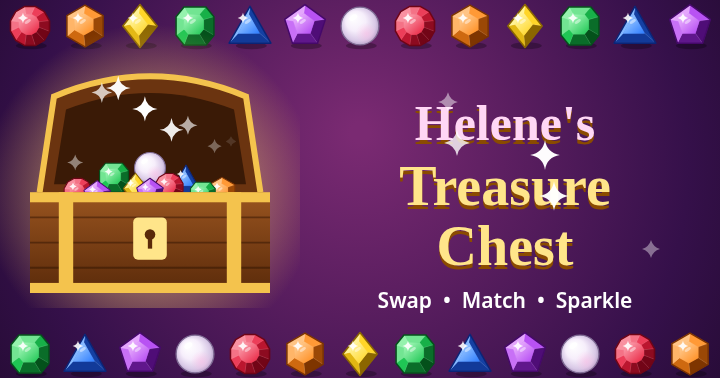
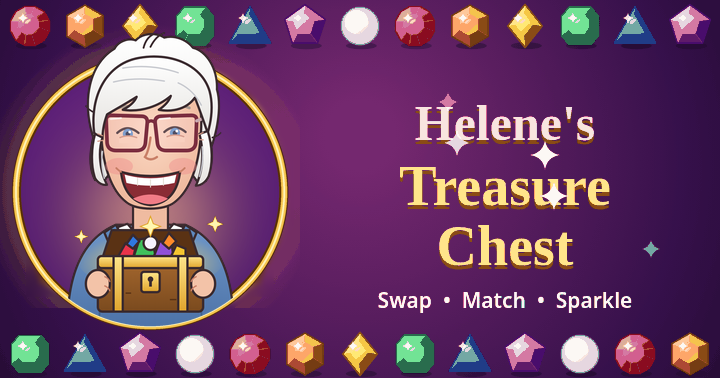
Helene caricature: new cover (cover.png/cover-anim.gif) with Helene holding her treasure chest; Helene stands beside the board and cheers on GREAT!/COMBO callouts and level clears (free space only, face badge on small/landscape screens), face on title + Level Complete cards (helene.js, helene.png, h

diff --git a/helene.js b/helene.js
@@ -1,0 +1,47 @@
+/* Helene cheers you on: her caricature sits beside the board (in free space only, never over the jewels),
+   bounces and says something kind on every GREAT!/COMBO callout and when a level is complete. */
+(()=>{const $=id=>document.getElementById(id),app=$('app');if(!app)return;
+const st=document.createElement('style');st.textContent=`
+#helBud{position:absolute;z-index:12;pointer-events:none;display:none;align-items:flex-end;gap:6px}
+#helBud img{display:block;height:100%;width:auto;filter:drop-shadow(0 4px 6px rgba(0,0,0,.55));transform-origin:50% 100%;animation:hbIdle 3.2s ease-in-out infinite}
+#helBud.face .hb{font-size:17px;padding:5px 10px;white-space:nowrap}
+#helBud.cheer img{animation:hbCheer .7s cubic-bezier(.2,1.6,.4,1) 2}
+#helBud .hb{align-self:center;max-width:170px;padding:8px 12px;border-radius:18px;background:#fffaf0;border:3px solid #f4c34d;color:#4a1767;font:800 19px/1.15 system-ui,-apple-system,"Segoe UI",Roboto,Arial,sans-serif;box-shadow:0 3px 0 #6b3a00;opacity:0;transform:scale(.6);transition:opacity .2s,transform .25s cubic-bezier(.2,1.6,.4,1);position:relative}
+#helBud .hb::before{content:"";position:absolute;left:-11px;top:50%;margin-top:-8px;border:8px solid transparent;border-right:10px solid #f4c34d;border-left:0}
+#helBud.say .hb{opacity:1;transform:scale(1)}
+@keyframes hbIdle{0%,100%{transform:translateY(0) rotate(0)}50%{transform:translateY(-3px) rotate(-1.5deg)}}
+@keyframes hbCheer{0%{transform:translateY(0) scale(1)}40%{transform:translateY(-14px) scale(1.06) rotate(-4deg)}100%{transform:translateY(0) scale(1)}}
+html.q0 #helBud img{animation:none!important}
+@media (prefers-reduced-motion:reduce){#helBud img{animation:none!important}}
+#lvlH::before,#ttl .a::before{content:"";display:inline-block;width:1.9em;height:1.9em;margin-right:.3em;vertical-align:middle;background:url(helene-face.png) center/contain no-repeat;filter:none}
+#ttl .a::before{width:2.2em;height:2.2em}`;document.head.appendChild(st);
+const el=document.createElement('div');el.id='helBud';el.setAttribute('aria-hidden','true');
+el.innerHTML='<div class="hb"></div>';const im=new Image();im.src='helene.png';im.alt='';im.width=215;im.height=380;el.insertBefore(im,el.firstChild);
+const fx=$('fxc');app.insertBefore(el,fx||null);
+const R=e=>e.getBoundingClientRect(),tt=$('titleOv');let key='';
+function place(){const ctl=$('ctl'),top=$('top'),wrap=$('wrap');if(!ctl||!wrap)return;const A=R(app),c=R(ctl),t=R(top),w=R(wrap);
+ const land=app.classList.contains('land'),H=A.height,W=A.width;let x0,x1,y0,y1;
+ if(tt&&tt.classList.contains('on')){el.style.display='none';key='title';return}
+ const below=[land?c.left:0,land?c.right:W,c.bottom+6,H-8],mid=[t.left,t.right,t.bottom+6,c.top-6],above=[land?t.left:0,land?t.right:W,8,t.top-6];
+ const C=land?[mid,below,above]:[below,above];const pick=C.find(b=>b[3]-b[2]>=84)||C.find(b=>b[3]-b[2]>=40);
+ const k=pick?pick.map(Math.round).join(','):'none';if(k===key)return;key=k;
+ if(!pick){el.style.display='none';return}
+ [x0,x1,y0,y1]=pick;const face=y1-y0<84,h=Math.round(Math.min(y1-y0,face?64:190)),iw=face?h:Math.round(h*215/380),bw=Math.min(face?150:170,Math.max(0,x1-x0-iw-24));
+ const src=face?'helene-face.png':'helene.png';if(!im.src.endsWith(src))im.src=src;el.classList.toggle('face',face);
+ el.style.display='flex';el.style.height=h+'px';el.style.top=Math.round(y0+(y1-y0-h)/2)+'px';
+ el.querySelector('.hb').style.display=bw>=90?'':'none';el.querySelector('.hb').style.maxWidth=bw+'px';
+ const tw=iw+(bw>=90?bw+6:0);el.style.left=Math.round(x0+Math.max(0,(x1-x0-tw)/2))+'px'}
+const LINES=['Wonderful!','Ooh, sparkly!','Beautiful!','Look at that!','Keep it up!','What a treasure!','Lovely match!','You\u2019re a natural!','So pretty!'];
+let tS,tC,last=-1;
+function say(msg,ms){const b=el.querySelector('.hb');b.textContent=msg;el.classList.add('say');clearTimeout(tS);tS=setTimeout(()=>el.classList.remove('say'),ms||1700);
+ el.classList.remove('cheer');void el.offsetWidth;el.classList.add('cheer');clearTimeout(tC);tC=setTimeout(()=>el.classList.remove('cheer'),1500)}
+function pickLine(){let i;do{i=Math.floor(Math.random()*LINES.length)}while(i===last&&LINES.length>1);last=i;return LINES[i]}
+const orig=window.callout;if(typeof orig==='function'){window.callout=function(w,s,tn){const r=orig.apply(this,arguments);try{say(s&&/COMBO/i.test(s)?'Wow, a combo!':pickLine())}catch(e){}return r}}
+const lv=$('lvlOv');let wasLv=false,wasT=true;
+new MutationObserver(()=>{const on=lv.classList.contains('on');if(on&&!wasLv)say('You filled my chest!',2600);let z='';if(on){const cd=lv.querySelector('.card');if(cd){const a=R(cd),b=R(el);if(!(a.left<b.right&&b.left<a.right&&a.top<b.bottom&&b.top<a.bottom))z='21'}}el.style.zIndex=z;wasLv=on}).observe(lv,{attributes:true,attributeFilter:['class']});
+if(tt)new MutationObserver(()=>{const on=tt.classList.contains('on');key='';place();if(!on&&wasT){setTimeout(()=>say('Let\u2019s find some treasure!',2200),500)}wasT=on}).observe(tt,{attributes:true,attributeFilter:['class']});
+const rp=()=>{key='';place()};addEventListener('resize',()=>setTimeout(rp,60));addEventListener('orientationchange',()=>[120,400,900].forEach(t=>setTimeout(rp,t)));
+if(window.visualViewport)visualViewport.addEventListener('resize',()=>setTimeout(rp,60));
+setInterval(place,1000);setTimeout(rp,50);
+window.HELENE={say,place:rp};
+})();

diff --git a/sw.js b/sw.js
@@ -1,4 +1,4 @@
-const P='helenes-treasure-chest-',V=P+'v9',FILES=['./','index.html','logic.js','art.js','gfx.js','manifest.json','icon-192.png','icon-512.png'];
+const P='helenes-treasure-chest-',V=P+'v10',FILES=['./','index.html','logic.js','art.js','gfx.js','helene.js','helene.png','helene-face.png','manifest.json','icon-192.png','icon-512.png'];
 self.addEventListener('install',e=>{e.waitUntil(caches.open(V).then(c=>c.addAll(FILES)));self.skipWaiting()});
 self.addEventListener('activate',e=>{e.waitUntil(caches.keys().then(k=>Promise.all(k.filter(n=>n!=V&&n.startsWith(P)).map(n=>caches.delete(n)))).then(()=>self.clients.claim()))});
 self.addEventListener('fetch',e=>{if(e.request.method!='GET'||new URL(e.request.url).origin!==location.origin)return;e.respondWith(fetch(e.request).then(r=>{if(r.ok){const cp=r.clone();caches.open(V).then(c=>c.put(e.request,cp))}return r}).catch(()=>caches.open(V).then(c=>c.match(e.request,{ignoreSearch:true}).then(r=>r||(e.request.mode=='navigate'?c.match('./'):undefined)))))});

diff --git a/index.html b/index.html
@@ -481,7 +481,7 @@ window.__htc={get B(){return B},get G(){return G},get state(){return state},get 
 /* boot */
 setMuted(muted,true);buildHow();refreshTitle();layout(true);requestAnimationFrame(frame);
 </script>
-<!--lb--><script>// Peter's Arcade leaderboard backend switch. Only PUBLIC keys go here.
+<script src="helene.js"></script><!--lb--><script>// Peter's Arcade leaderboard backend switch. Only PUBLIC keys go here.
 // Phase 1 (now): 'local' = scores stay on each phone. Switch to 'firestore' once the Firebase project exists.
 window.PALB_CONFIG = {
   backend: 'firestore',

diff --git a/README.md b/README.md
@@ -8,4 +8,5 @@ A free, family-friendly jewel-matching (match-3) game from Peter's Arcade. Play:
 - Hints after 6 s idle or on demand, automatic reshuffle when stuck, invalid swaps bounce back free.
 - Big gems, 18px+ text, 48px+ buttons, gentle synthesized sounds with mute, progress and bests saved on the device.
 - Visuals (v9, gfx.js): animated bokeh background, velvet board, glowing jewels with distinct shapes (Ruby is a heart), glow/shard bursts, coins that fly to the score, big COMBO callouts, gentle shake on big combos, a chest that opens with confetti on level clear. Effects step down automatically on slow phones (add ?lite=1 or ?q=0 to force lighter modes).
-- All art is drawn in code (art.js); no third-party assets. PWA with offline service worker.
+- Helene herself (v10, helene.js): a friendly cartoon of Helene holding her treasure chest is on the cover and stands beside the board, cheering on every GREAT!/COMBO and level clear (only in free space, never over the jewels; a round face badge on small screens). Her face is also on the title and Level Complete cards.
+- All art is drawn in code (art.js) or by hand for this game; no third-party assets. PWA with offline service worker.
